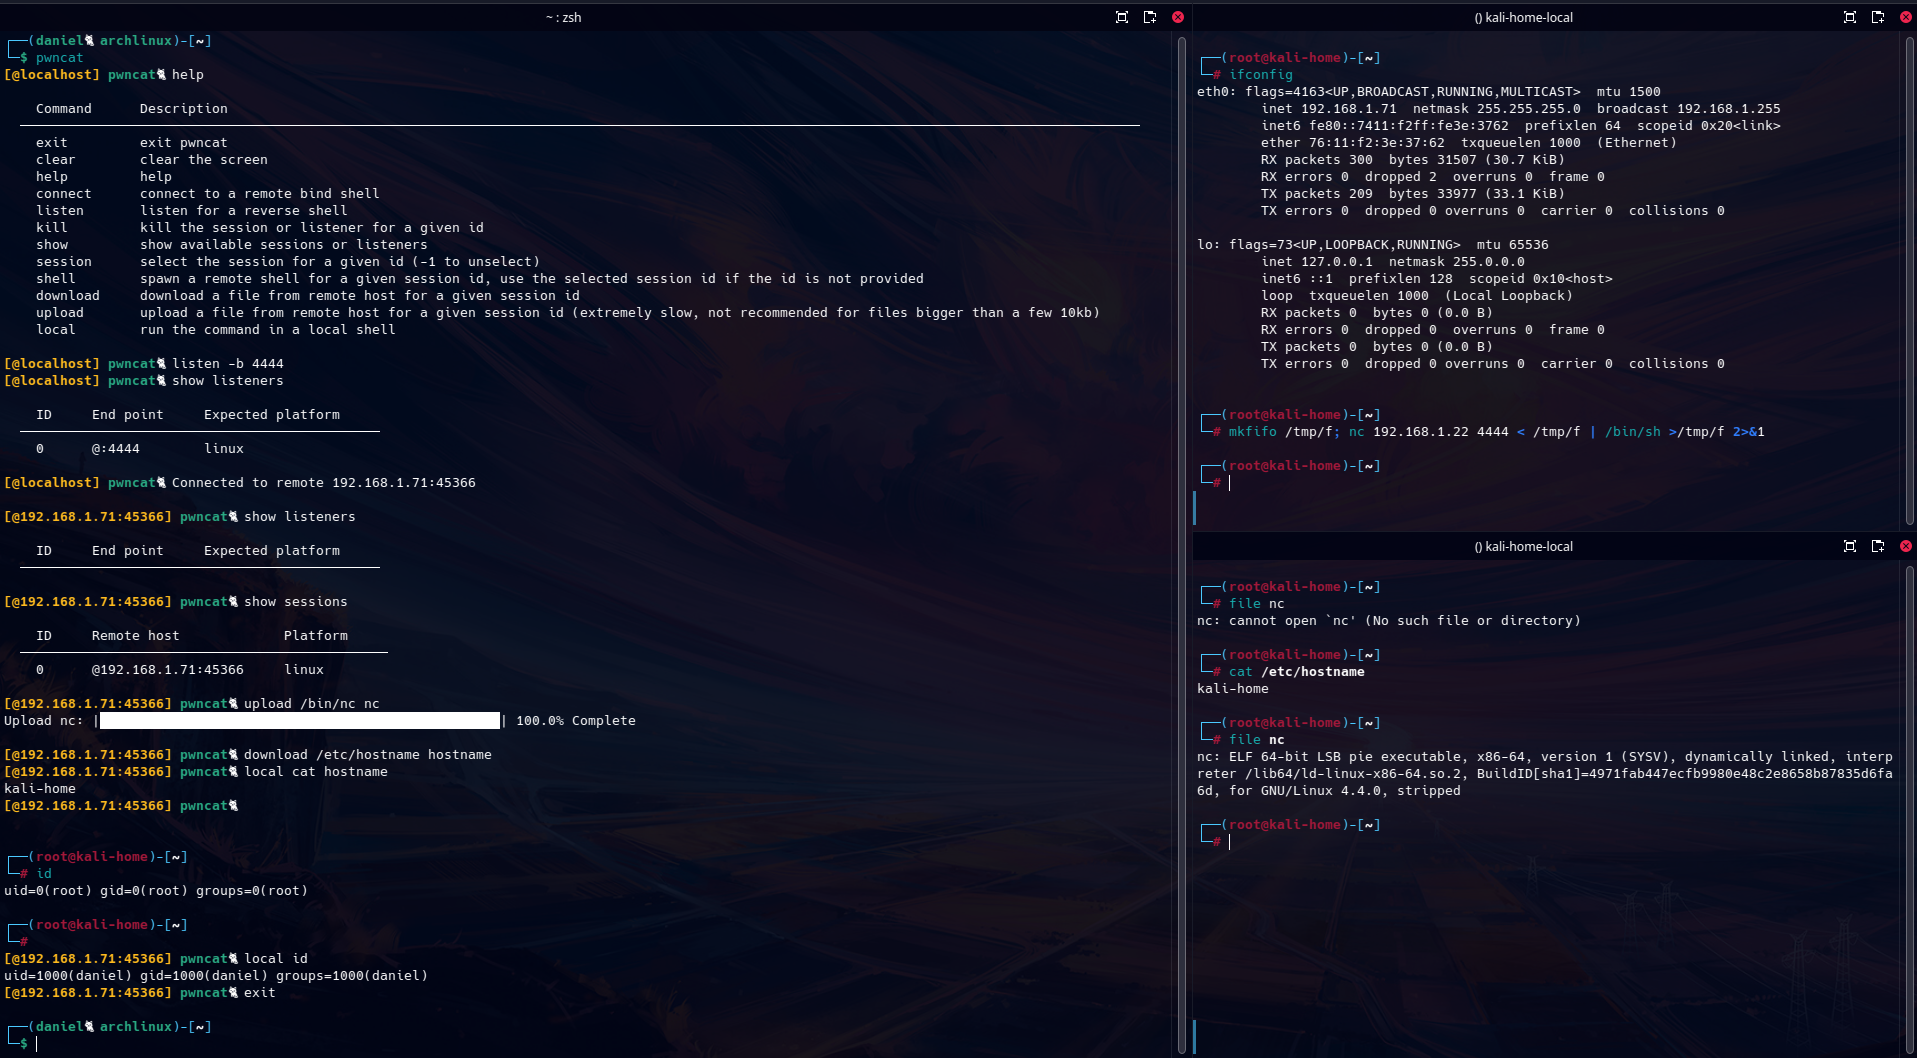
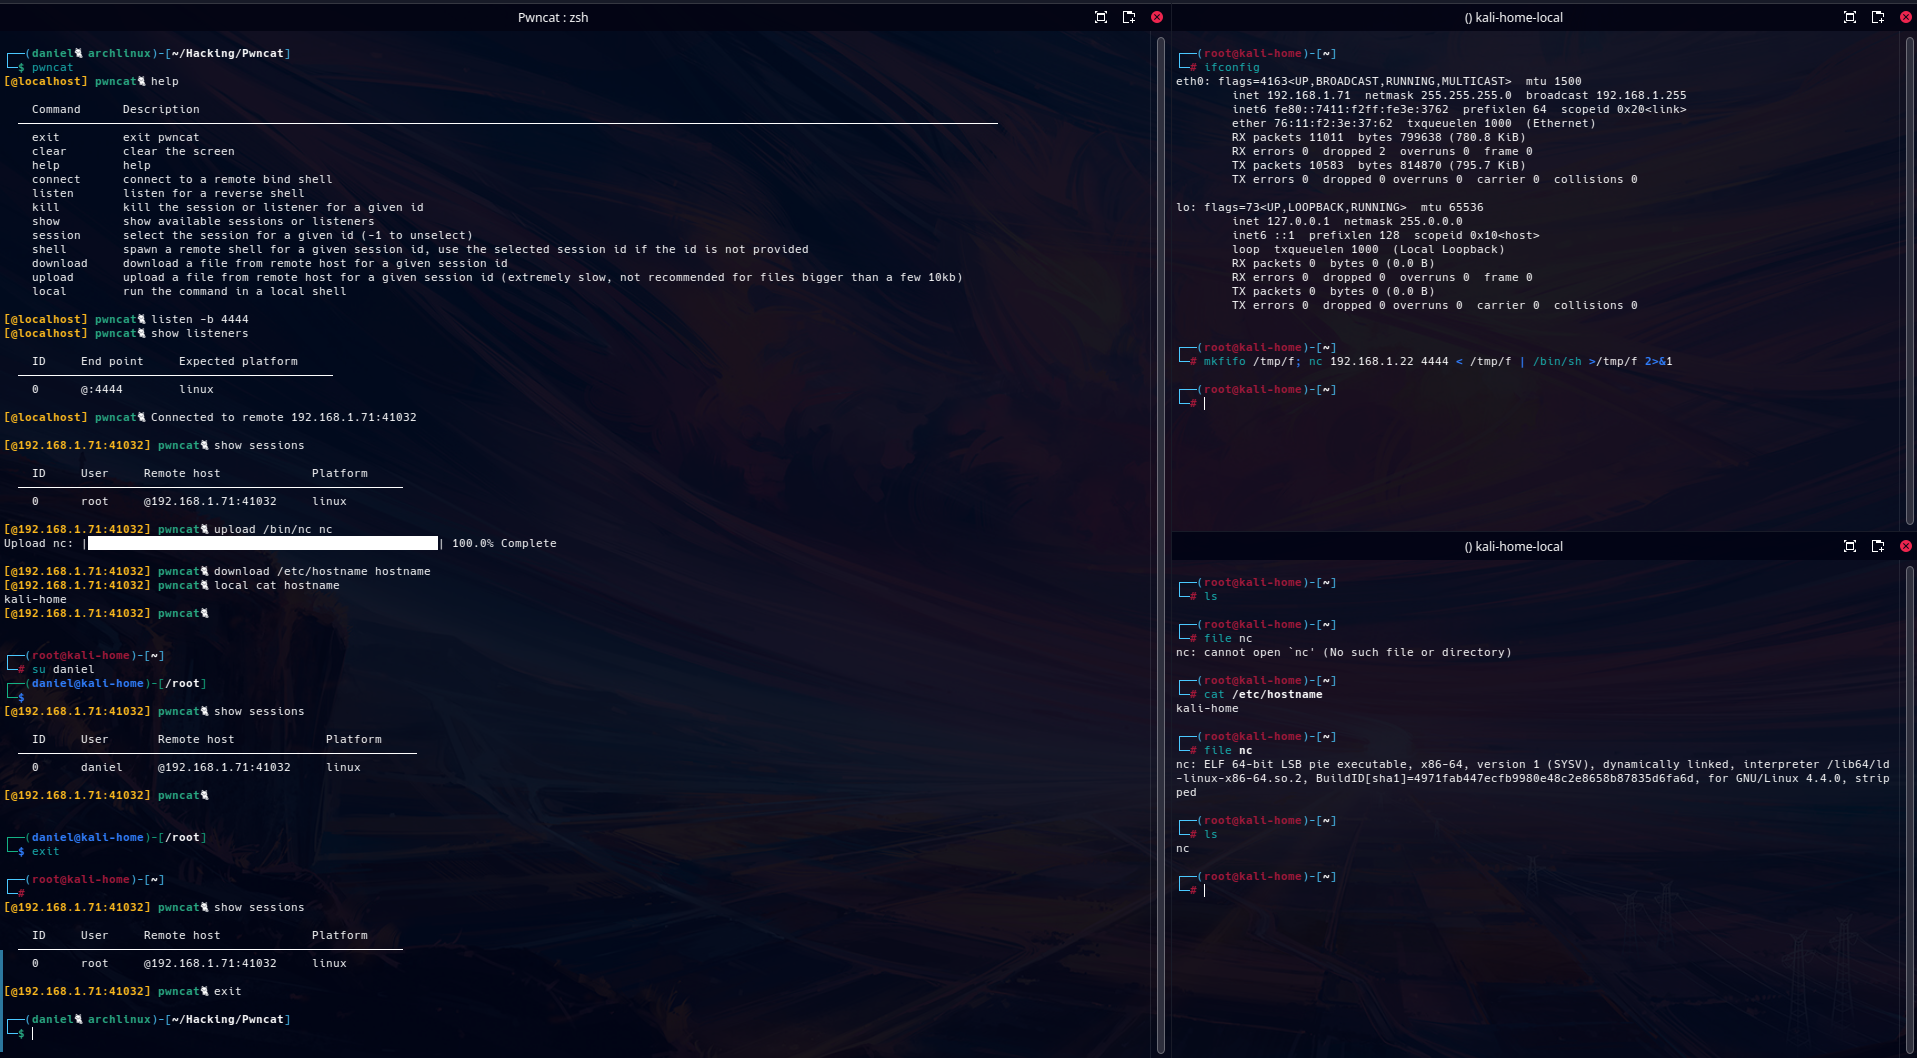
add username in sessions listing

diff --git a/platform/linux.py b/platform/linux.py
@@ -20,16 +20,22 @@ class Linux(Platform):
         self.__stdin_fd = sys.stdin.fileno()
         self.__old_settings = termios.tcgetattr(self.__stdin_fd)
         self.__got_pty: bool = False
+        self.__interactive: bool = False
 
     def which(self, name: str) -> str:
         self.channel.purge()
-        res, data = transaction.Transaction(f"which {name}".encode(), self.channel, self, not self.interactive).execute()
+        res, data = transaction.Transaction(f"which {name}".encode(), self.channel, self, False).execute()
         return data.decode("utf-8")
 
-    def id(self, name: str) -> str:
+    def id(self) -> str:
         self.channel.purge()
-        res, data = transaction.Transaction(f"id".encode(), self.channel, self, False).execute()
+        res, data = transaction.Transaction(f"id -u".encode(), self.channel, self, not self.__interactive).execute()
         return data.decode("utf-8")
+
+    def whoami(self) -> typing.Tuple[bool, str, str]:
+        self.channel.purge()
+        res, data = transaction.Transaction(f"whoami".encode(), self.channel, self, not self.__interactive).execute()
+        return res, "", data.decode("utf-8").replace("\r", "").replace("\n", "")
 
     def download(self, rfile: str) -> typing.Tuple[bool, str, bytes]:
         res = False
@@ -166,6 +172,7 @@ class Linux(Platform):
                 res = True
         else:
             termios.tcsetattr(self.__stdin_fd, termios.TCSADRAIN, self.__old_settings)
-        return res
+        self.__interactive = res
+        return self.__interactive
 
 

diff --git a/platform/__init__.py b/platform/__init__.py
@@ -33,6 +33,9 @@ class Platform(abc.ABC):
     def upload(self, rfile: str, data: bytes) -> typing.Tuple[bool, str]:
         return False, style.bold(f"not implemented for {self.__platform_name} platform")
 
+    def whoami(self) -> typing.Tuple[bool, str, str]:
+        return False, style.bold(f"not implemented for {self.__platform_name} platform"), ""
+
     def build_transaction(self, payload: bytes, start: bytes, end: bytes) -> bytes:
         return b"echo " + start + b";" + payload + b";" + b"echo " + end + b"\n"
    

diff --git a/manager.py b/manager.py
@@ -188,7 +188,8 @@ class Manager:
         if type == "sessions":
             res = True
             for id, sess in self.__sessions.items():
-                serializations.append(f"{id},{sess.remote},{sess.platform_name}")
+                res, error, user = sess.platform.whoami()
+                serializations.append(f"{id},{user},{sess.remote},{sess.platform_name}")
         elif type == "listeners":
             res = True
             for id, value in self.__listeners.items():

diff --git a/engine.py b/engine.py
@@ -144,7 +144,7 @@ class Engine:
         if res:
             error = ""
             if type == "sessions":
-                headers = ["ID", "Remote host", "Platform"]
+                headers = ["ID", "User", "Remote host", "Platform"]
                 print("\n" + style.tabulate(headers, data) + "\n")
             elif type == "listeners":
                 headers = ["ID", "End point", "Expected platform"]

diff --git a/session.py b/session.py
@@ -47,6 +47,10 @@ class Session:
     def is_open(self) -> bool:
         return self.__chan.is_open
 
+    @property
+    def is_interactive(self) -> bool:
+        return self.__interactive
+
     def open(self) -> None:
         self.__chan.open()
 
